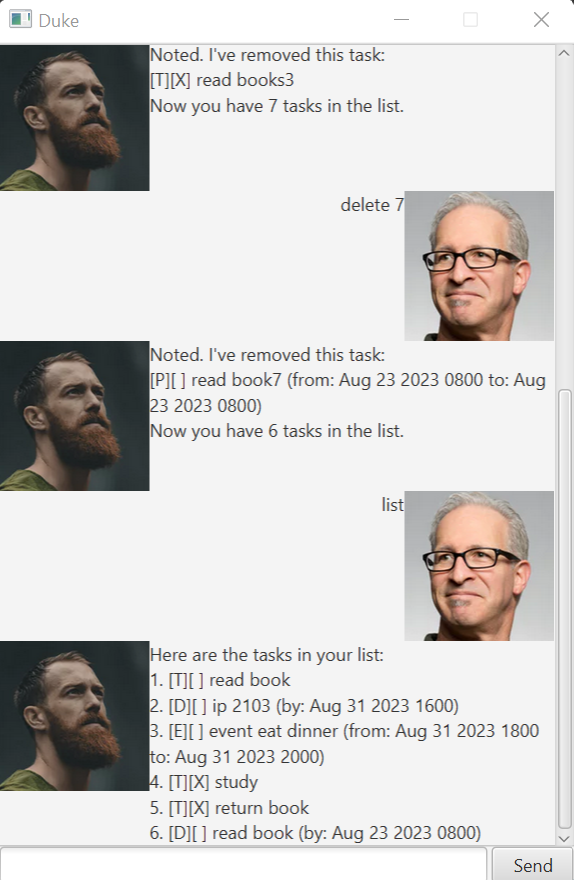
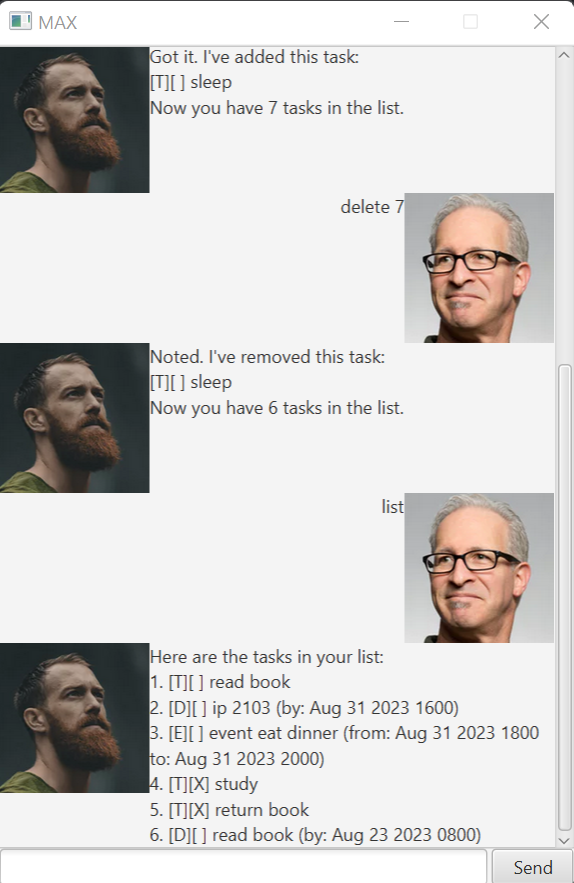
Updated Application Name

diff --git a/src/main/java/duke/Duke.java b/src/main/java/duke/Duke.java
@@ -50,6 +50,7 @@ public class Duke extends Application {
     public Duke() {
         ui = new Ui();
         storage = new Storage("./data/duke.txt");
+
         try {
             tasks = new TaskList(storage.load());
             assert tasks != null : "tasks should be initialized"; // tasks should not be null
@@ -57,6 +58,7 @@ public class Duke extends Application {
             ui.showLoadingError();
             tasks = new TaskList(new ArrayList<>());
         }
+        ui.printWelcome();
     }
 
     /**
@@ -85,7 +87,7 @@ public class Duke extends Application {
         stage.show();
 
         //Step 2. Formatting the window to look as expected
-        stage.setTitle("Duke");
+        stage.setTitle("MAX");
         stage.setResizable(false);
         stage.setMinHeight(600.0);
         stage.setMinWidth(400.0);
@@ -98,6 +100,7 @@ public class Duke extends Application {
 
         scrollPane.setVvalue(1.0);
         scrollPane.setFitToWidth(true);
+
 
         // You will need to import `javafx.scene.layout.Region` for this.
         dialogContainer.setPrefHeight(Region.USE_COMPUTED_SIZE);
@@ -113,6 +116,8 @@ public class Duke extends Application {
 
         AnchorPane.setLeftAnchor(userInput , 1.0);
         AnchorPane.setBottomAnchor(userInput, 1.0);
+
+
 
         //Step 3. Add functionality to handle user input.
         sendButton.setOnMouseClicked((event) -> {

diff --git a/src/main/java/duke/Parser.java b/src/main/java/duke/Parser.java
@@ -86,7 +86,7 @@ public class Parser {
             ui.printFound(tasks.find(keyword));
             break;
         default:
-            throw new DukeException("☹ OOPS!!! I'm sorry, but I don't know what that means :-(");
+            throw new DukeException("OOPS!!! I'm sorry, but I don't know what that means :-(");
         }
     }
 

diff --git a/src/main/java/duke/Ui.java b/src/main/java/duke/Ui.java
@@ -46,7 +46,7 @@ public class Ui {
     /**
      * Displays a welcome message to the user.
      */
-    public void showWelcome() {
+    public void printWelcome() {
         this.addMessage("Hello! I'm Max\n");
         this.addMessage("What can I do for you?\n");
     }
